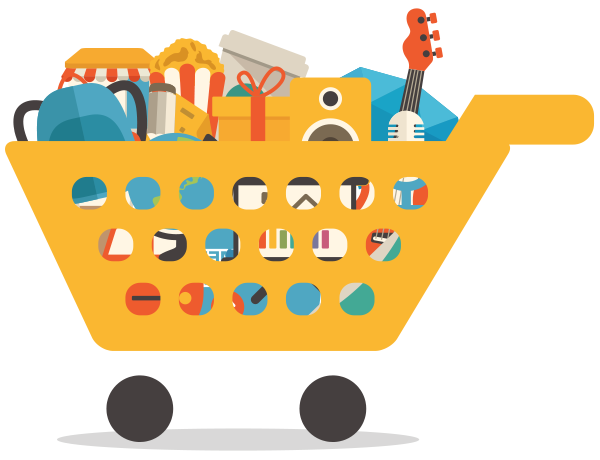
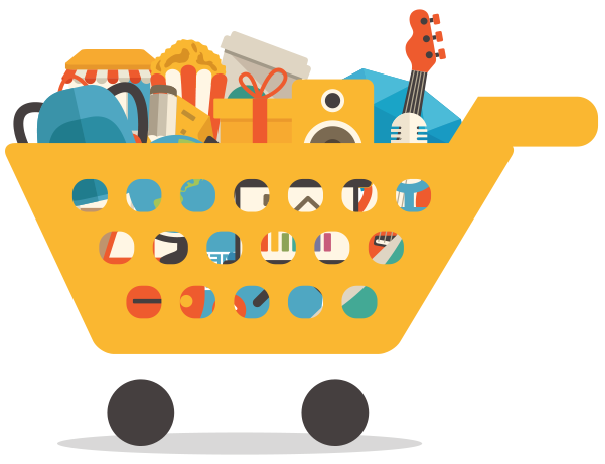
new skrollr page

diff --git a/src/how_it_works/js/jquery-1.9.1.min.js b/src/how_it_works/js/jquery-1.9.1.min.js
@@ -1,3 +1,5 @@
+import '../../node_modules/jquery';
+
 /*! jQuery v1.9.1 | (c) 2005, 2012 jQuery Foundation, Inc. | jquery.org/license
 //@ sourceMappingURL=jquery.min.map
 */(function(e,t){var n,r,i=typeof t,o=e.document,a=e.location,s=e.jQuery,u=e.$,l={},c=[],p="1.9.1",f=c.concat,d=c.push,h=c.slice,g=c.indexOf,m=l.toString,y=l.hasOwnProperty,v=p.trim,b=function(e,t){return new b.fn.init(e,t,r)},x=/[+-]?(?:\d*\.|)\d+(?:[eE][+-]?\d+|)/.source,w=/\S+/g,T=/^[\s\uFEFF\xA0]+|[\s\uFEFF\xA0]+$/g,N=/^(?:(<[\w\W]+>)[^>]*|#([\w-]*))$/,C=/^<(\w+)\s*\/?>(?:<\/\1>|)$/,k=/^[\],:{}\s]*$/,E=/(?:^|:|,)(?:\s*\[)+/g,S=/\\(?:["\\\/bfnrt]|u[\da-fA-F]{4})/g,A=/"[^"\\\r\n]*"|true|false|null|-?(?:\d+\.|)\d+(?:[eE][+-]?\d+|)/g,j=/^-ms-/,D=/-([\da-z])/gi,L=function(e,t){return t.toUpperCase()},H=function(e){(o.addEventListener||"load"===e.type||"complete"===o.readyState)&&(q(),b.ready())},q=function(){o.addEventListener?(o.removeEventListener("DOMContentLoaded",H,!1),e.removeEventListener("load",H,!1)):(o.detachEvent("onreadystatechange",H),e.detachEvent("onload",H))};b.fn=b.prototype={jquery:p,constructor:b,init:function(e,n,r){var i,a;if(!e)return this;if("string"==typeof e){if(i="<"===e.charAt(0)&&">"===e.charAt(e.length-1)&&e.length>=3?[null,e,null]:N.exec(e),!i||!i[1]&&n)return!n||n.jquery?(n||r).find(e):this.constructor(n).find(e);if(i[1]){if(n=n instanceof b?n[0]:n,b.merge(this,b.parseHTML(i[1],n&&n.nodeType?n.ownerDocument||n:o,!0)),C.test(i[1])&&b.isPlainObject(n))for(i in n)b.isFunction(this[i])?this[i](n[i]):this.attr(i,n[i]);return this}if(a=o.getElementById(i[2]),a&&a.parentNode){if(a.id!==i[2])return r.find(e);this.length=1,this[0]=a}return this.context=o,this.selector=e,this}return e.nodeType?(this.context=this[0]=e,this.length=1,this):b.isFunction(e)?r.ready(e):(e.selector!==t&&(this.selector=e.selector,this.context=e.context),b.makeArray(e,this))},selector:"",length:0,size:function(){return this.length},toArray:function(){return h.call(this)},get:function(e){return null==e?this.toArray():0>e?this[this.length+e]:this[e]},pushStack:function(e){var t=b.merge(this.constructor(),e);return t.prevObject=this,t.context=this.context,t},each:function(e,t){return b.each(this,e,t)},ready:function(e){return b.ready.promise().done(e),this},slice:function(){return this.pushStack(h.apply(this,arguments))},first:function(){return this.eq(0)},last:function(){return this.eq(-1)},eq:function(e){var t=this.length,n=+e+(0>e?t:0);return this.pushStack(n>=0&&t>n?[this[n]]:[])},map:function(e){return this.pushStack(b.map(this,function(t,n){return e.call(t,n,t)}))},end:function(){return this.prevObject||this.constructor(null)},push:d,sort:[].sort,splice:[].splice},b.fn.init.prototype=b.fn,b.extend=b.fn.extend=function(){var e,n,r,i,o,a,s=arguments[0]||{},u=1,l=arguments.length,c=!1;for("boolean"==typeof s&&(c=s,s=arguments[1]||{},u=2),"object"==typeof s||b.isFunction(s)||(s={}),l===u&&(s=this,--u);l>u;u++)if(null!=(o=arguments[u]))for(i in o)e=s[i],r=o[i],s!==r&&(c&&r&&(b.isPlainObject(r)||(n=b.isArray(r)))?(n?(n=!1,a=e&&b.isArray(e)?e:[]):a=e&&b.isPlainObject(e)?e:{},s[i]=b.extend(c,a,r)):r!==t&&(s[i]=r));return s},b.extend({noConflict:function(t){return e.$===b&&(e.$=u),t&&e.jQuery===b&&(e.jQuery=s),b},isReady:!1,readyWait:1,holdReady:function(e){e?b.readyWait++:b.ready(!0)},ready:function(e){if(e===!0?!--b.readyWait:!b.isReady){if(!o.body)return setTimeout(b.ready);b.isReady=!0,e!==!0&&--b.readyWait>0||(n.resolveWith(o,[b]),b.fn.trigger&&b(o).trigger("ready").off("ready"))}},isFunction:function(e){return"function"===b.type(e)},isArray:Array.isArray||function(e){return"array"===b.type(e)},isWindow:function(e){return null!=e&&e==e.window},isNumeric:function(e){return!isNaN(parseFloat(e))&&isFinite(e)},type:function(e){return null==e?e+"":"object"==typeof e||"function"==typeof e?l[m.call(e)]||"object":typeof e},isPlainObject:function(e){if(!e||"object"!==b.type(e)||e.nodeType||b.isWindow(e))return!1;try{if(e.constructor&&!y.call(e,"constructor")&&!y.call(e.constructor.prototype,"isPrototypeOf"))return!1}catch(n){return!1}var r;for(r in e);return r===t||y.call(e,r)},isEmptyObject:function(e){var t;for(t in e)return!1;return!0},error:function(e){throw Error(e)},parseHTML:function(e,t,n){if(!e||"string"!=typeof e)return null;"boolean"==typeof t&&(n=t,t=!1),t=t||o;var r=C.exec(e),i=!n&&[];return r?[t.createElement(r[1])]:(r=b.buildFragment([e],t,i),i&&b(i).remove(),b.merge([],r.childNodes))},parseJSON:function(n){return e.JSON&&e.JSON.parse?e.JSON.parse(n):null===n?n:"string"==typeof n&&(n=b.trim(n),n&&k.test(n.replace(S,"@").replace(A,"]").replace(E,"")))?Function("return "+n)():(b.error("Invalid JSON: "+n),t)},parseXML:function(n){var r,i;if(!n||"string"!=typeof n)return null;try{e.DOMParser?(i=new DOMParser,r=i.parseFromString(n,"text/xml")):(r=new ActiveXObject("Microsoft.XMLDOM"),r.async="false",r.loadXML(n))}catch(o){r=t}return r&&r.documentElement&&!r.getElementsByTagName("parsererror").length||b.error("Invalid XML: "+n),r},noop:function(){},globalEval:function(t){t&&b.trim(t)&&(e.execScript||function(t){e.eval.call(e,t)})(t)},camelCase:function(e){return e.replace(j,"ms-").replace(D,L)},nodeName:function(e,t){return e.nodeName&&e.nodeName.toLowerCase()===t.toLowerCase()},each:function(e,t,n){var r,i=0,o=e.length,a=M(e);if(n){if(a){for(;o>i;i++)if(r=t.apply(e[i],n),r===!1)break}else for(i in e)if(r=t.apply(e[i],n),r===!1)break}else if(a){for(;o>i;i++)if(r=t.call(e[i],i,e[i]),r===!1)break}else for(i in e)if(r=t.call(e[i],i,e[i]),r===!1)break;return e},trim:v&&!v.call("\ufeff\u00a0")?function(e){return null==e?"":v.call(e)}:function(e){return null==e?"":(e+"").replace(T,"")},makeArray:function(e,t){var n=t||[];return null!=e&&(M(Object(e))?b.merge(n,"string"==typeof e?[e]:e):d.call(n,e)),n},inArray:function(e,t,n){var r;if(t){if(g)return g.call(t,e,n);for(r=t.length,n=n?0>n?Math.max(0,r+n):n:0;r>n;n++)if(n in t&&t[n]===e)return n}return-1},merge:function(e,n){var r=n.length,i=e.length,o=0;if("number"==typeof r)for(;r>o;o++)e[i++]=n[o];else while(n[o]!==t)e[i++]=n[o++];return e.length=i,e},grep:function(e,t,n){var r,i=[],o=0,a=e.length;for(n=!!n;a>o;o++)r=!!t(e[o],o),n!==r&&i.push(e[o]);return i},map:function(e,t,n){var r,i=0,o=e.length,a=M(e),s=[];if(a)for(;o>i;i++)r=t(e[i],i,n),null!=r&&(s[s.length]=r);else for(i in e)r=t(e[i],i,n),null!=r&&(s[s.length]=r);return f.apply([],s)},guid:1,proxy:function(e,n){var r,i,o;return"string"==typeof n&&(o=e[n],n=e,e=o),b.isFunction(e)?(r=h.call(arguments,2),i=function(){return e.apply(n||this,r.concat(h.call(arguments)))},i.guid=e.guid=e.guid||b.guid++,i):t},access:function(e,n,r,i,o,a,s){var u=0,l=e.length,c=null==r;if("object"===b.type(r)){o=!0;for(u in r)b.access(e,n,u,r[u],!0,a,s)}else if(i!==t&&(o=!0,b.isFunction(i)||(s=!0),c&&(s?(n.call(e,i),n=null):(c=n,n=function(e,t,n){return c.call(b(e),n)})),n))for(;l>u;u++)n(e[u],r,s?i:i.call(e[u],u,n(e[u],r)));return o?e:c?n.call(e):l?n(e[0],r):a},now:function(){return(new Date).getTime()}}),b.ready.promise=function(t){if(!n)if(n=b.Deferred(),"complete"===o.readyState)setTimeout(b.ready);else if(o.addEventListener)o.addEventListener("DOMContentLoaded",H,!1),e.addEventListener("load",H,!1);else{o.attachEvent("onreadystatechange",H),e.attachEvent("onload",H);var r=!1;try{r=null==e.frameElement&&o.documentElement}catch(i){}r&&r.doScroll&&function a(){if(!b.isReady){try{r.doScroll("left")}catch(e){return setTimeout(a,50)}q(),b.ready()}}()}return n.promise(t)},b.each("Boolean Number String Function Array Date RegExp Object Error".split(" "),function(e,t){l["[object "+t+"]"]=t.toLowerCase()});function M(e){var t=e.length,n=b.type(e);return b.isWindow(e)?!1:1===e.nodeType&&t?!0:"array"===n||"function"!==n&&(0===t||"number"==typeof t&&t>0&&t-1 in e)}r=b(o);var _={};function F(e){var t=_[e]={};return b.each(e.match(w)||[],function(e,n){t[n]=!0}),t}b.Callbacks=function(e){e="string"==typeof e?_[e]||F(e):b.extend({},e);var n,r,i,o,a,s,u=[],l=!e.once&&[],c=function(t){for(r=e.memory&&t,i=!0,a=s||0,s=0,o=u.length,n=!0;u&&o>a;a++)if(u[a].apply(t[0],t[1])===!1&&e.stopOnFalse){r=!1;break}n=!1,u&&(l?l.length&&c(l.shift()):r?u=[]:p.disable())},p={add:function(){if(u){var t=u.length;(function i(t){b.each(t,function(t,n){var r=b.type(n);"function"===r?e.unique&&p.has(n)||u.push(n):n&&n.length&&"string"!==r&&i(n)})})(arguments),n?o=u.length:r&&(s=t,c(r))}return this},remove:function(){return u&&b.each(arguments,function(e,t){var r;while((r=b.inArray(t,u,r))>-1)u.splice(r,1),n&&(o>=r&&o--,a>=r&&a--)}),this},has:function(e){return e?b.inArray(e,u)>-1:!(!u||!u.length)},empty:function(){return u=[],this},disable:function(){return u=l=r=t,this},disabled:function(){return!u},lock:function(){return l=t,r||p.disable(),this},locked:function(){return!l},fireWith:function(e,t){return t=t||[],t=[e,t.slice?t.slice():t],!u||i&&!l||(n?l.push(t):c(t)),this},fire:function(){return p.fireWith(this,arguments),this},fired:function(){return!!i}};return p},b.extend({Deferred:function(e){var t=[["resolve","done",b.Callbacks("once memory"),"resolved"],["reject","fail",b.Callbacks("once memory"),"rejected"],["notify","progress",b.Callbacks("memory")]],n="pending",r={state:function(){return n},always:function(){return i.done(arguments).fail(arguments),this},then:function(){var e=arguments;return b.Deferred(function(n){b.each(t,function(t,o){var a=o[0],s=b.isFunction(e[t])&&e[t];i[o[1]](function(){var e=s&&s.apply(this,arguments);e&&b.isFunction(e.promise)?e.promise().done(n.resolve).fail(n.reject).progress(n.notify):n[a+"With"](this===r?n.promise():this,s?[e]:arguments)})}),e=null}).promise()},promise:function(e){return null!=e?b.extend(e,r):r}},i={};return r.pipe=r.then,b.each(t,function(e,o){var a=o[2],s=o[3];r[o[1]]=a.add,s&&a.add(function(){n=s},t[1^e][2].disable,t[2][2].lock),i[o[0]]=function(){return i[o[0]+"With"](this===i?r:this,arguments),this},i[o[0]+"With"]=a.fireWith}),r.promise(i),e&&e.call(i,i),i},when:function(e){var t=0,n=h.call(arguments),r=n.length,i=1!==r||e&&b.isFunction(e.promise)?r:0,o=1===i?e:b.Deferred(),a=function(e,t,n){return function(r){t[e]=this,n[e]=arguments.length>1?h.call(arguments):r,n===s?o.notifyWith(t,n):--i||o.resolveWith(t,n)}},s,u,l;if(r>1)for(s=Array(r),u=Array(r),l=Array(r);r>t;t++)n[t]&&b.isFunction(n[t].promise)?n[t].promise().done(a(t,l,n)).fail(o.reject).progress(a(t,u,s)):--i;return i||o.resolveWith(l,n),o.promise()}}),b.support=function(){var t,n,r,a,s,u,l,c,p,f,d=o.createElement("div");if(d.setAttribute("className","t"),d.innerHTML="  <link/><table></table><a href='/a'>a</a><input type='checkbox'/>",n=d.getElementsByTagName("*"),r=d.getElementsByTagName("a")[0],!n||!r||!n.length)return{};s=o.createElement("select"),l=s.appendChild(o.createElement("option")),a=d.getElementsByTagName("input")[0],r.style.cssText="top:1px;float:left;opacity:.5",t={getSetAttribute:"t"!==d.className,leadingWhitespace:3===d.firstChild.nodeType,tbody:!d.getElementsByTagName("tbody").length,htmlSerialize:!!d.getElementsByTagName("link").length,style:/top/.test(r.getAttribute("style")),hrefNormalized:"/a"===r.getAttribute("href"),opacity:/^0.5/.test(r.style.opacity),cssFloat:!!r.style.cssFloat,checkOn:!!a.value,optSelected:l.selected,enctype:!!o.createElement("form").enctype,html5Clone:"<:nav></:nav>"!==o.createElement("nav").cloneNode(!0).outerHTML,boxModel:"CSS1Compat"===o.compatMode,deleteExpando:!0,noCloneEvent:!0,inlineBlockNeedsLayout:!1,shrinkWrapBlocks:!1,reliableMarginRight:!0,boxSizingReliable:!0,pixelPosition:!1},a.checked=!0,t.noCloneChecked=a.cloneNode(!0).checked,s.disabled=!0,t.optDisabled=!l.disabled;try{delete d.test}catch(h){t.deleteExpando=!1}a=o.createElement("input"),a.setAttribute("value",""),t.input=""===a.getAttribute("value"),a.value="t",a.setAttribute("type","radio"),t.radioValue="t"===a.value,a.setAttribute("checked","t"),a.setAttribute("name","t"),u=o.createDocumentFragment(),u.appendChild(a),t.appendChecked=a.checked,t.checkClone=u.cloneNode(!0).cloneNode(!0).lastChild.checked,d.attachEvent&&(d.attachEvent("onclick",function(){t.noCloneEvent=!1}),d.cloneNode(!0).click());for(f in{submit:!0,change:!0,focusin:!0})d.setAttribute(c="on"+f,"t"),t[f+"Bubbles"]=c in e||d.attributes[c].expando===!1;return d.style.backgroundClip="content-box",d.cloneNode(!0).style.backgroundClip="",t.clearCloneStyle="content-box"===d.style.backgroundClip,b(function(){var n,r,a,s="padding:0;margin:0;border:0;display:block;box-sizing:content-box;-moz-box-sizing:content-box;-webkit-box-sizing:content-box;",u=o.getElementsByTagName("body")[0];u&&(n=o.createElement("div"),n.style.cssText="border:0;width:0;height:0;position:absolute;top:0;left:-9999px;margin-top:1px",u.appendChild(n).appendChild(d),d.innerHTML="<table><tr><td></td><td>t</td></tr></table>",a=d.getElementsByTagName("td"),a[0].style.cssText="padding:0;margin:0;border:0;display:none",p=0===a[0].offsetHeight,a[0].style.display="",a[1].style.display="none",t.reliableHiddenOffsets=p&&0===a[0].offsetHeight,d.innerHTML="",d.style.cssText="box-sizing:border-box;-moz-box-sizing:border-box;-webkit-box-sizing:border-box;padding:1px;border:1px;display:block;width:4px;margin-top:1%;position:absolute;top:1%;",t.boxSizing=4===d.offsetWidth,t.doesNotIncludeMarginInBodyOffset=1!==u.offsetTop,e.getComputedStyle&&(t.pixelPosition="1%"!==(e.getComputedStyle(d,null)||{}).top,t.boxSizingReliable="4px"===(e.getComputedStyle(d,null)||{width:"4px"}).width,r=d.appendChild(o.createElement("div")),r.style.cssText=d.style.cssText=s,r.style.marginRight=r.style.width="0",d.style.width="1px",t.reliableMarginRight=!parseFloat((e.getComputedStyle(r,null)||{}).marginRight)),typeof d.style.zoom!==i&&(d.innerHTML="",d.style.cssText=s+"width:1px;padding:1px;display:inline;zoom:1",t.inlineBlockNeedsLayout=3===d.offsetWidth,d.style.display="block",d.innerHTML="<div></div>",d.firstChild.style.width="5px",t.shrinkWrapBlocks=3!==d.offsetWidth,t.inlineBlockNeedsLayout&&(u.style.zoom=1)),u.removeChild(n),n=d=a=r=null)}),n=s=u=l=r=a=null,t}();var O=/(?:\{[\s\S]*\}|\[[\s\S]*\])$/,B=/([A-Z])/g;function P(e,n,r,i){if(b.acceptData(e)){var o,a,s=b.expando,u="string"==typeof n,l=e.nodeType,p=l?b.cache:e,f=l?e[s]:e[s]&&s;if(f&&p[f]&&(i||p[f].data)||!u||r!==t)return f||(l?e[s]=f=c.pop()||b.guid++:f=s),p[f]||(p[f]={},l||(p[f].toJSON=b.noop)),("object"==typeof n||"function"==typeof n)&&(i?p[f]=b.extend(p[f],n):p[f].data=b.extend(p[f].data,n)),o=p[f],i||(o.data||(o.data={}),o=o.data),r!==t&&(o[b.camelCase(n)]=r),u?(a=o[n],null==a&&(a=o[b.camelCase(n)])):a=o,a}}function R(e,t,n){if(b.acceptData(e)){var r,i,o,a=e.nodeType,s=a?b.cache:e,u=a?e[b.expando]:b.expando;if(s[u]){if(t&&(o=n?s[u]:s[u].data)){b.isArray(t)?t=t.concat(b.map(t,b.camelCase)):t in o?t=[t]:(t=b.camelCase(t),t=t in o?[t]:t.split(" "));for(r=0,i=t.length;i>r;r++)delete o[t[r]];if(!(n?$:b.isEmptyObject)(o))return}(n||(delete s[u].data,$(s[u])))&&(a?b.cleanData([e],!0):b.support.deleteExpando||s!=s.window?delete s[u]:s[u]=null)}}}b.extend({cache:{},expando:"jQuery"+(p+Math.random()).replace(/\D/g,""),noData:{embed:!0,object:"clsid:D27CDB6E-AE6D-11cf-96B8-444553540000",applet:!0},hasData:function(e){return e=e.nodeType?b.cache[e[b.expando]]:e[b.expando],!!e&&!$(e)},data:function(e,t,n){return P(e,t,n)},removeData:function(e,t){return R(e,t)},_data:function(e,t,n){return P(e,t,n,!0)},_removeData:function(e,t){return R(e,t,!0)},acceptData:function(e){if(e.nodeType&&1!==e.nodeType&&9!==e.nodeType)return!1;var t=e.nodeName&&b.noData[e.nodeName.toLowerCase()];return!t||t!==!0&&e.getAttribute("classid")===t}}),b.fn.extend({data:function(e,n){var r,i,o=this[0],a=0,s=null;if(e===t){if(this.length&&(s=b.data(o),1===o.nodeType&&!b._data(o,"parsedAttrs"))){for(r=o.attributes;r.length>a;a++)i=r[a].name,i.indexOf("data-")||(i=b.camelCase(i.slice(5)),W(o,i,s[i]));b._data(o,"parsedAttrs",!0)}return s}return"object"==typeof e?this.each(function(){b.data(this,e)}):b.access(this,function(n){return n===t?o?W(o,e,b.data(o,e)):null:(this.each(function(){b.data(this,e,n)}),t)},null,n,arguments.length>1,null,!0)},removeData:function(e){return this.each(function(){b.removeData(this,e)})}});function W(e,n,r){if(r===t&&1===e.nodeType){var i="data-"+n.replace(B,"-$1").toLowerCase();if(r=e.getAttribute(i),"string"==typeof r){try{r="true"===r?!0:"false"===r?!1:"null"===r?null:+r+""===r?+r:O.test(r)?b.parseJSON(r):r}catch(o){}b.data(e,n,r)}else r=t}return r}function $(e){var t;for(t in e)if(("data"!==t||!b.isEmptyObject(e[t]))&&"toJSON"!==t)return!1;return!0}b.extend({queue:function(e,n,r){var i;return e?(n=(n||"fx")+"queue",i=b._data(e,n),r&&(!i||b.isArray(r)?i=b._data(e,n,b.makeArray(r)):i.push(r)),i||[]):t},dequeue:function(e,t){t=t||"fx";var n=b.queue(e,t),r=n.length,i=n.shift(),o=b._queueHooks(e,t),a=function(){b.dequeue(e,t)};"inprogress"===i&&(i=n.shift(),r--),o.cur=i,i&&("fx"===t&&n.unshift("inprogress"),delete o.stop,i.call(e,a,o)),!r&&o&&o.empty.fire()},_queueHooks:function(e,t){var n=t+"queueHooks";return b._data(e,n)||b._data(e,n,{empty:b.Callbacks("once memory").add(function(){b._removeData(e,t+"queue"),b._removeData(e,n)})})}}),b.fn.extend({queue:function(e,n){var r=2;return"string"!=typeof e&&(n=e,e="fx",r--),r>arguments.length?b.queue(this[0],e):n===t?this:this.each(function(){var t=b.queue(this,e,n);b._queueHooks(this,e),"fx"===e&&"inprogress"!==t[0]&&b.dequeue(this,e)})},dequeue:function(e){return this.each(function(){b.dequeue(this,e)})},delay:function(e,t){return e=b.fx?b.fx.speeds[e]||e:e,t=t||"fx",this.queue(t,function(t,n){var r=setTimeout(t,e);n.stop=function(){clearTimeout(r)}})},clearQueue:function(e){return this.queue(e||"fx",[])},promise:function(e,n){var r,i=1,o=b.Deferred(),a=this,s=this.length,u=function(){--i||o.resolveWith(a,[a])};"string"!=typeof e&&(n=e,e=t),e=e||"fx";while(s--)r=b._data(a[s],e+"queueHooks"),r&&r.empty&&(i++,r.empty.add(u));return u(),o.promise(n)}});var I,z,X=/[\t\r\n]/g,U=/\r/g,V=/^(?:input|select|textarea|button|object)$/i,Y=/^(?:a|area)$/i,J=/^(?:checked|selected|autofocus|autoplay|async|controls|defer|disabled|hidden|loop|multiple|open|readonly|required|scoped)$/i,G=/^(?:checked|selected)$/i,Q=b.support.getSetAttribute,K=b.support.input;b.fn.extend({attr:function(e,t){return b.access(this,b.attr,e,t,arguments.length>1)},removeAttr:function(e){return this.each(function(){b.removeAttr(this,e)})},prop:function(e,t){return b.access(this,b.prop,e,t,arguments.length>1)},removeProp:function(e){return e=b.propFix[e]||e,this.each(function(){try{this[e]=t,delete this[e]}catch(n){}})},addClass:function(e){var t,n,r,i,o,a=0,s=this.length,u="string"==typeof e&&e;if(b.isFunction(e))return this.each(function(t){b(this).addClass(e.call(this,t,this.className))});if(u)for(t=(e||"").match(w)||[];s>a;a++)if(n=this[a],r=1===n.nodeType&&(n.className?(" "+n.className+" ").replace(X," "):" ")){o=0;while(i=t[o++])0>r.indexOf(" "+i+" ")&&(r+=i+" ");n.className=b.trim(r)}return this},removeClass:function(e){var t,n,r,i,o,a=0,s=this.length,u=0===arguments.length||"string"==typeof e&&e;if(b.isFunction(e))return this.each(function(t){b(this).removeClass(e.call(this,t,this.className))});if(u)for(t=(e||"").match(w)||[];s>a;a++)if(n=this[a],r=1===n.nodeType&&(n.className?(" "+n.className+" ").replace(X," "):"")){o=0;while(i=t[o++])while(r.indexOf(" "+i+" ")>=0)r=r.replace(" "+i+" "," ");n.className=e?b.trim(r):""}return this},toggleClass:function(e,t){var n=typeof e,r="boolean"==typeof t;return b.isFunction(e)?this.each(function(n){b(this).toggleClass(e.call(this,n,this.className,t),t)}):this.each(function(){if("string"===n){var o,a=0,s=b(this),u=t,l=e.match(w)||[];while(o=l[a++])u=r?u:!s.hasClass(o),s[u?"addClass":"removeClass"](o)}else(n===i||"boolean"===n)&&(this.className&&b._data(this,"__className__",this.className),this.className=this.className||e===!1?"":b._data(this,"__className__")||"")})},hasClass:function(e){var t=" "+e+" ",n=0,r=this.length;for(;r>n;n++)if(1===this[n].nodeType&&(" "+this[n].className+" ").replace(X," ").indexOf(t)>=0)return!0;return!1},val:function(e){var n,r,i,o=this[0];{if(arguments.length)return i=b.isFunction(e),this.each(function(n){var o,a=b(this);1===this.nodeType&&(o=i?e.call(this,n,a.val()):e,null==o?o="":"number"==typeof o?o+="":b.isArray(o)&&(o=b.map(o,function(e){return null==e?"":e+""})),r=b.valHooks[this.type]||b.valHooks[this.nodeName.toLowerCase()],r&&"set"in r&&r.set(this,o,"value")!==t||(this.value=o))});if(o)return r=b.valHooks[o.type]||b.valHooks[o.nodeName.toLowerCase()],r&&"get"in r&&(n=r.get(o,"value"))!==t?n:(n=o.value,"string"==typeof n?n.replace(U,""):null==n?"":n)}}}),b.extend({valHooks:{option:{get:function(e){var t=e.attributes.value;return!t||t.specified?e.value:e.text}},select:{get:function(e){var t,n,r=e.options,i=e.selectedIndex,o="select-one"===e.type||0>i,a=o?null:[],s=o?i+1:r.length,u=0>i?s:o?i:0;for(;s>u;u++)if(n=r[u],!(!n.selected&&u!==i||(b.support.optDisabled?n.disabled:null!==n.getAttribute("disabled"))||n.parentNode.disabled&&b.nodeName(n.parentNode,"optgroup"))){if(t=b(n).val(),o)return t;a.push(t)}return a},set:function(e,t){var n=b.makeArray(t);return b(e).find("option").each(function(){this.selected=b.inArray(b(this).val(),n)>=0}),n.length||(e.selectedIndex=-1),n}}},attr:function(e,n,r){var o,a,s,u=e.nodeType;if(e&&3!==u&&8!==u&&2!==u)return typeof e.getAttribute===i?b.prop(e,n,r):(a=1!==u||!b.isXMLDoc(e),a&&(n=n.toLowerCase(),o=b.attrHooks[n]||(J.test(n)?z:I)),r===t?o&&a&&"get"in o&&null!==(s=o.get(e,n))?s:(typeof e.getAttribute!==i&&(s=e.getAttribute(n)),null==s?t:s):null!==r?o&&a&&"set"in o&&(s=o.set(e,r,n))!==t?s:(e.setAttribute(n,r+""),r):(b.removeAttr(e,n),t))},removeAttr:function(e,t){var n,r,i=0,o=t&&t.match(w);if(o&&1===e.nodeType)while(n=o[i++])r=b.propFix[n]||n,J.test(n)?!Q&&G.test(n)?e[b.camelCase("default-"+n)]=e[r]=!1:e[r]=!1:b.attr(e,n,""),e.removeAttribute(Q?n:r)},attrHooks:{type:{set:function(e,t){if(!b.support.radioValue&&"radio"===t&&b.nodeName(e,"input")){var n=e.value;return e.setAttribute("type",t),n&&(e.value=n),t}}}},propFix:{tabindex:"tabIndex",readonly:"readOnly","for":"htmlFor","class":"className",maxlength:"maxLength",cellspacing:"cellSpacing",cellpadding:"cellPadding",rowspan:"rowSpan",colspan:"colSpan",usemap:"useMap",frameborder:"frameBorder",contenteditable:"contentEditable"},prop:function(e,n,r){var i,o,a,s=e.nodeType;if(e&&3!==s&&8!==s&&2!==s)return a=1!==s||!b.isXMLDoc(e),a&&(n=b.propFix[n]||n,o=b.propHooks[n]),r!==t?o&&"set"in o&&(i=o.set(e,r,n))!==t?i:e[n]=r:o&&"get"in o&&null!==(i=o.get(e,n))?i:e[n]},propHooks:{tabIndex:{get:function(e){var n=e.getAttributeNode("tabindex");return n&&n.specified?parseInt(n.value,10):V.test(e.nodeName)||Y.test(e.nodeName)&&e.href?0:t}}}}),z={get:function(e,n){var r=b.prop(e,n),i="boolean"==typeof r&&e.getAttribute(n),o="boolean"==typeof r?K&&Q?null!=i:G.test(n)?e[b.camelCase("default-"+n)]:!!i:e.getAttributeNode(n);return o&&o.value!==!1?n.toLowerCase():t},set:function(e,t,n){return t===!1?b.removeAttr(e,n):K&&Q||!G.test(n)?e.setAttribute(!Q&&b.propFix[n]||n,n):e[b.camelCase("default-"+n)]=e[n]=!0,n}},K&&Q||(b.attrHooks.value={get:function(e,n){var r=e.getAttributeNode(n);return b.nodeName(e,"input")?e.defaultValue:r&&r.specified?r.value:t},set:function(e,n,r){return b.nodeName(e,"input")?(e.defaultValue=n,t):I&&I.set(e,n,r)}}),Q||(I=b.valHooks.button={get:function(e,n){var r=e.getAttributeNode(n);return r&&("id"===n||"name"===n||"coords"===n?""!==r.value:r.specified)?r.value:t},set:function(e,n,r){var i=e.getAttributeNode(r);return i||e.setAttributeNode(i=e.ownerDocument.createAttribute(r)),i.value=n+="","value"===r||n===e.getAttribute(r)?n:t}},b.attrHooks.contenteditable={get:I.get,set:function(e,t,n){I.set(e,""===t?!1:t,n)}},b.each(["width","height"],function(e,n){b.attrHooks[n]=b.extend(b.attrHooks[n],{set:function(e,r){return""===r?(e.setAttribute(n,"auto"),r):t}})})),b.support.hrefNormalized||(b.each(["href","src","width","height"],function(e,n){b.attrHooks[n]=b.extend(b.attrHooks[n],{get:function(e){var r=e.getAttribute(n,2);return null==r?t:r}})}),b.each(["href","src"],function(e,t){b.propHooks[t]={get:function(e){return e.getAttribute(t,4)}}})),b.support.style||(b.attrHooks.style={get:function(e){return e.style.cssText||t},set:function(e,t){return e.style.cssText=t+""}}),b.support.optSelected||(b.propHooks.selected=b.extend(b.propHooks.selected,{get:function(e){var t=e.parentNode;return t&&(t.selectedIndex,t.parentNode&&t.parentNode.selectedIndex),null}})),b.support.enctype||(b.propFix.enctype="encoding"),b.support.checkOn||b.each(["radio","checkbox"],function(){b.valHooks[this]={get:function(e){return null===e.getAttribute("value")?"on":e.value}}}),b.each(["radio","checkbox"],function(){b.valHooks[this]=b.extend(b.valHooks[this],{set:function(e,n){return b.isArray(n)?e.checked=b.inArray(b(e).val(),n)>=0:t}})});var Z=/^(?:input|select|textarea)$/i,et=/^key/,tt=/^(?:mouse|contextmenu)|click/,nt=/^(?:focusinfocus|focusoutblur)$/,rt=/^([^.]*)(?:\.(.+)|)$/;function it(){return!0}function ot(){return!1}b.event={global:{},add:function(e,n,r,o,a){var s,u,l,c,p,f,d,h,g,m,y,v=b._data(e);if(v){r.handler&&(c=r,r=c.handler,a=c.selector),r.guid||(r.guid=b.guid++),(u=v.events)||(u=v.events={}),(f=v.handle)||(f=v.handle=function(e){return typeof b===i||e&&b.event.triggered===e.type?t:b.event.dispatch.apply(f.elem,arguments)},f.elem=e),n=(n||"").match(w)||[""],l=n.length;while(l--)s=rt.exec(n[l])||[],g=y=s[1],m=(s[2]||"").split(".").sort(),p=b.event.special[g]||{},g=(a?p.delegateType:p.bindType)||g,p=b.event.special[g]||{},d=b.extend({type:g,origType:y,data:o,handler:r,guid:r.guid,selector:a,needsContext:a&&b.expr.match.needsContext.test(a),namespace:m.join(".")},c),(h=u[g])||(h=u[g]=[],h.delegateCount=0,p.setup&&p.setup.call(e,o,m,f)!==!1||(e.addEventListener?e.addEventListener(g,f,!1):e.attachEvent&&e.attachEvent("on"+g,f))),p.add&&(p.add.call(e,d),d.handler.guid||(d.handler.guid=r.guid)),a?h.splice(h.delegateCount++,0,d):h.push(d),b.event.global[g]=!0;e=null}},remove:function(e,t,n,r,i){var o,a,s,u,l,c,p,f,d,h,g,m=b.hasData(e)&&b._data(e);if(m&&(c=m.events)){t=(t||"").match(w)||[""],l=t.length;while(l--)if(s=rt.exec(t[l])||[],d=g=s[1],h=(s[2]||"").split(".").sort(),d){p=b.event.special[d]||{},d=(r?p.delegateType:p.bindType)||d,f=c[d]||[],s=s[2]&&RegExp("(^|\\.)"+h.join("\\.(?:.*\\.|)")+"(\\.|$)"),u=o=f.length;while(o--)a=f[o],!i&&g!==a.origType||n&&n.guid!==a.guid||s&&!s.test(a.namespace)||r&&r!==a.selector&&("**"!==r||!a.selector)||(f.splice(o,1),a.selector&&f.delegateCount--,p.remove&&p.remove.call(e,a));u&&!f.length&&(p.teardown&&p.teardown.call(e,h,m.handle)!==!1||b.removeEvent(e,d,m.handle),delete c[d])}else for(d in c)b.event.remove(e,d+t[l],n,r,!0);b.isEmptyObject(c)&&(delete m.handle,b._removeData(e,"events"))}},trigger:function(n,r,i,a){var s,u,l,c,p,f,d,h=[i||o],g=y.call(n,"type")?n.type:n,m=y.call(n,"namespace")?n.namespace.split("."):[];if(l=f=i=i||o,3!==i.nodeType&&8!==i.nodeType&&!nt.test(g+b.event.triggered)&&(g.indexOf(".")>=0&&(m=g.split("."),g=m.shift(),m.sort()),u=0>g.indexOf(":")&&"on"+g,n=n[b.expando]?n:new b.Event(g,"object"==typeof n&&n),n.isTrigger=!0,n.namespace=m.join("."),n.namespace_re=n.namespace?RegExp("(^|\\.)"+m.join("\\.(?:.*\\.|)")+"(\\.|$)"):null,n.result=t,n.target||(n.target=i),r=null==r?[n]:b.makeArray(r,[n]),p=b.event.special[g]||{},a||!p.trigger||p.trigger.apply(i,r)!==!1)){if(!a&&!p.noBubble&&!b.isWindow(i)){for(c=p.delegateType||g,nt.test(c+g)||(l=l.parentNode);l;l=l.parentNode)h.push(l),f=l;f===(i.ownerDocument||o)&&h.push(f.defaultView||f.parentWindow||e)}d=0;while((l=h[d++])&&!n.isPropagationStopped())n.type=d>1?c:p.bindType||g,s=(b._data(l,"events")||{})[n.type]&&b._data(l,"handle"),s&&s.apply(l,r),s=u&&l[u],s&&b.acceptData(l)&&s.apply&&s.apply(l,r)===!1&&n.preventDefault();if(n.type=g,!(a||n.isDefaultPrevented()||p._default&&p._default.apply(i.ownerDocument,r)!==!1||"click"===g&&b.nodeName(i,"a")||!b.acceptData(i)||!u||!i[g]||b.isWindow(i))){f=i[u],f&&(i[u]=null),b.event.triggered=g;try{i[g]()}catch(v){}b.event.triggered=t,f&&(i[u]=f)}return n.result}},dispatch:function(e){e=b.event.fix(e);var n,r,i,o,a,s=[],u=h.call(arguments),l=(b._data(this,"events")||{})[e.type]||[],c=b.event.special[e.type]||{};if(u[0]=e,e.delegateTarget=this,!c.preDispatch||c.preDispatch.call(this,e)!==!1){s=b.event.handlers.call(this,e,l),n=0;while((o=s[n++])&&!e.isPropagationStopped()){e.currentTarget=o.elem,a=0;while((i=o.handlers[a++])&&!e.isImmediatePropagationStopped())(!e.namespace_re||e.namespace_re.test(i.namespace))&&(e.handleObj=i,e.data=i.data,r=((b.event.special[i.origType]||{}).handle||i.handler).apply(o.elem,u),r!==t&&(e.result=r)===!1&&(e.preventDefault(),e.stopPropagation()))}return c.postDispatch&&c.postDispatch.call(this,e),e.result}},handlers:function(e,n){var r,i,o,a,s=[],u=n.delegateCount,l=e.target;if(u&&l.nodeType&&(!e.button||"click"!==e.type))for(;l!=this;l=l.parentNode||this)if(1===l.nodeType&&(l.disabled!==!0||"click"!==e.type)){for(o=[],a=0;u>a;a++)i=n[a],r=i.selector+" ",o[r]===t&&(o[r]=i.needsContext?b(r,this).index(l)>=0:b.find(r,this,null,[l]).length),o[r]&&o.push(i);o.length&&s.push({elem:l,handlers:o})}return n.length>u&&s.push({elem:this,handlers:n.slice(u)}),s},fix:function(e){if(e[b.expando])return e;var t,n,r,i=e.type,a=e,s=this.fixHooks[i];s||(this.fixHooks[i]=s=tt.test(i)?this.mouseHooks:et.test(i)?this.keyHooks:{}),r=s.props?this.props.concat(s.props):this.props,e=new b.Event(a),t=r.length;while(t--)n=r[t],e[n]=a[n];return e.target||(e.target=a.srcElement||o),3===e.target.nodeType&&(e.target=e.target.parentNode),e.metaKey=!!e.metaKey,s.filter?s.filter(e,a):e},props:"altKey bubbles cancelable ctrlKey currentTarget eventPhase metaKey relatedTarget shiftKey target timeStamp view which".split(" "),fixHooks:{},keyHooks:{props:"char charCode key keyCode".split(" "),filter:function(e,t){return null==e.which&&(e.which=null!=t.charCode?t.charCode:t.keyCode),e}},mouseHooks:{props:"button buttons clientX clientY fromElement offsetX offsetY pageX pageY screenX screenY toElement".split(" "),filter:function(e,n){var r,i,a,s=n.button,u=n.fromElement;return null==e.pageX&&null!=n.clientX&&(i=e.target.ownerDocument||o,a=i.documentElement,r=i.body,e.pageX=n.clientX+(a&&a.scrollLeft||r&&r.scrollLeft||0)-(a&&a.clientLeft||r&&r.clientLeft||0),e.pageY=n.clientY+(a&&a.scrollTop||r&&r.scrollTop||0)-(a&&a.clientTop||r&&r.clientTop||0)),!e.relatedTarget&&u&&(e.relatedTarget=u===e.target?n.toElement:u),e.which||s===t||(e.which=1&s?1:2&s?3:4&s?2:0),e}},special:{load:{noBubble:!0},click:{trigger:function(){return b.nodeName(this,"input")&&"checkbox"===this.type&&this.click?(this.click(),!1):t}},focus:{trigger:function(){if(this!==o.activeElement&&this.focus)try{return this.focus(),!1}catch(e){}},delegateType:"focusin"},blur:{trigger:function(){return this===o.activeElement&&this.blur?(this.blur(),!1):t},delegateType:"focusout"},beforeunload:{postDispatch:function(e){e.result!==t&&(e.originalEvent.returnValue=e.result)}}},simulate:function(e,t,n,r){var i=b.extend(new b.Event,n,{type:e,isSimulated:!0,originalEvent:{}});r?b.event.trigger(i,null,t):b.event.dispatch.call(t,i),i.isDefaultPrevented()&&n.preventDefault()}},b.removeEvent=o.removeEventListener?function(e,t,n){e.removeEventListener&&e.removeEventListener(t,n,!1)}:function(e,t,n){var r="on"+t;e.detachEvent&&(typeof e[r]===i&&(e[r]=null),e.detachEvent(r,n))},b.Event=function(e,n){return this instanceof b.Event?(e&&e.type?(this.originalEvent=e,this.type=e.type,this.isDefaultPrevented=e.defaultPrevented||e.returnValue===!1||e.getPreventDefault&&e.getPreventDefault()?it:ot):this.type=e,n&&b.extend(this,n),this.timeStamp=e&&e.timeStamp||b.now(),this[b.expando]=!0,t):new b.Event(e,n)},b.Event.prototype={isDefaultPrevented:ot,isPropagationStopped:ot,isImmediatePropagationStopped:ot,preventDefault:function(){var e=this.originalEvent;this.isDefaultPrevented=it,e&&(e.preventDefault?e.preventDefault():e.returnValue=!1)},stopPropagation:function(){var e=this.originalEvent;this.isPropagationStopped=it,e&&(e.stopPropagation&&e.stopPropagation(),e.cancelBubble=!0)},stopImmediatePropagation:function(){this.isImmediatePropagationStopped=it,this.stopPropagation()}},b.each({mouseenter:"mouseover",mouseleave:"mouseout"},function(e,t){b.event.special[e]={delegateType:t,bindType:t,handle:function(e){var n,r=this,i=e.relatedTarget,o=e.handleObj;

diff --git a/src/containers/Howitworks.js b/src/containers/Howitworks.js
@@ -3,24 +3,87 @@ import NavBar from '../components/NavBar';
 import AppBar from 'material-ui/AppBar';
 import Toolbar from 'material-ui/Toolbar';
 
+import { ParallaxProvider, Parallax } from 'react-skrollr';
+import { Background } from 'react-parallax';
+
+import '../how_it_works/css/style.css';
+import mountains_bkg1 from '../how_it_works/images/mountains_bkg1.svg';
+import city_bkg from '../how_it_works/images/city_bkg.svg';
+import delivery from '../how_it_works/images/shopping_cart.png';
 
 class Howitworks extends Component {
 // @Natasha write your code here
   render() {
     return (
-		<div>
-			<NavBar/>
-			<AppBar position="static" color="default">
-				<Toolbar className = "title-bar">
-					<h1>How it works</h1>
-				</Toolbar>
-			</AppBar>
-		</div>
 
+			<ParallaxProvider>
+				{/* Scene 1 */}
+				<Parallax data={{'data-start': 'left: 40%; opacity: 1;','data-top-top': 'opacity: 0;'}}>
+					<div>Scroll to see the story</div>
+				</Parallax>
 
-    )
+				<Parallax data={{'data-start': 'opacity: 1;','data-1000': 'opacity: 0;'}}>
+				<Background> <img src={mountains_bkg1}/>
+
+					<Parallax data={{'data-10': 'opacity: 1; position:fixed; top:30%;','data-500': 'opacity: 0; top:-50%;'}}>
+						<div className='carolyn'></div>
+					</Parallax>
+
+					<Parallax data={{'data-10': 'opacity: 1; position:fixed; left:10%; top:30%;','data-500': 'opacity: 0; top:-50%;'}}>
+						<p>Meet Carolyn</p>
+					</Parallax>
+
+					<Parallax data={{'data-3': 'opacity: 0;', 'data-20': 'opacity: 1; position:fixed; left:10%; top:60%; width:20%;','data-500': 'opacity: 0; top:-50%;'}}>
+						<div>She runs a free childcare for refugee families in the outskirts of Bogota, Colombia. <div>Currently, it accounts for 185 kids.</div></div>
+					</Parallax>
+
+					<Parallax data={{'data-35': 'opacity: 0;', 'data-50': 'opacity: 1; position:fixed; left:50%; top:50%;','data-500': 'opacity: 0; top:-50%;'}}>
+						<div className='kids'></div>
+					</Parallax>
+
+					<Parallax data={{'data-35': 'opacity: 0; width: 25%;', 'data-50': 'opacity: 1; position:fixed; left:50%; top:30%;','data-500': 'opacity: 0; top:-50%;'}}>               
+						<div> Every day, her pupils are in need of nutritious and safe food, clean water, clothing, textbooks, and toys</div>
+					</Parallax>			
+				</Background>
+				</Parallax>
+
+				{/*	Scene-2	*/}		
+
+				<Parallax data={{'data-1000': 'opacity: 1;','data-2000': 'opacity: 0;'}}>
+				<Background className='scene-2'> <img src={city_bkg}/>
+
+					<Parallax data={{'data-500': 'opacity: 0;', 'data-800': 'opacity: 1; position:fixed; top:30%;','data-1500': 'opacity: 0; top:-50%;'}}>
+						<div className='donna'></div>
+					</Parallax>
+
+					<Parallax data={{'data-500': 'opacity: 0;','data-800': 'opacity: 1; position:fixed; left:10%; top:30%;','data-1500': 'opacity: 0; top:-50%;'}}>
+						<p>Meet Donna</p>
+					</Parallax> 
+
+					<Parallax data={{'data-500': 'opacity: 0;', 'data-900': 'opacity: 1; position:fixed; left:10%; top:45%; width: 20%;','data-1500': 'opacity: 0; top:-50%;'}}>
+						<div> She works in New York City and wants to make an in-kind - non-monetary - donation to Carolyn's charity...</div>
+					</Parallax>
+
+					<Parallax data={{'data-500': 'opacity: 0;','data-900': 'opacity: 1; position:fixed; left:10%; top:60%; width: 20%;','data-1500': 'opacity: 0; top:-50%;'}}>
+						<div>...so, that it would be as easy as shopping online, and as traceable as a local delivery</div>
+					</Parallax> 
+
+					<Parallax data={{'data-500': 'opacity: 1; position: fixed; right:-10%; top:60%;', 'data-900': 'opacity: 1; right:50%; top:40%;','data-1500': 'opacity: 0; top:-50%;'}}>
+					<div className='delivery'></div>
+					</Parallax>
+
+				</Background>
+				</Parallax>
+
+			</ParallaxProvider>
+
+    );
   }
+
+
+
 }
+
 
 export default Howitworks;
 

diff --git a/src/how_it_works/css/style.css b/src/how_it_works/css/style.css
@@ -1,18 +1,3 @@
-body{
-	background:#000;
-}
-
-#Scenes{
-	position:fixed;
-	width:100%;
-	height:400%;
-}
-
-.parallax-layer{
-	position:absolute;
-	height:100vh;
-	background-repeat:no-repeat;
-}
 
 #scene-1{
 	background:url('../images/mountains_bkg1.svg');
@@ -24,6 +9,7 @@ body{
     position:absolute;
 	background:url(../images/kids.png);
     background-repeat: no-repeat;
+    background-size: 60% 60%;
     width: 500px;
     height: 300px;
     left:48%;
@@ -31,69 +17,50 @@ body{
 
 
 .carolyn {
-	position:absolute;
+	position:fixed;
 	background:url(../images/carolyn.png);
     background-repeat: no-repeat;
+    background-size: 60% 60%;
 	width: 220px;
 	height:500px;
     left:30%;
     display: flex;
 }
 
-h1 {
-    position:absolute;
-	left:10%;
-}
-
-h2 {
-    text-align:center;
-    position: relative;
-    margin: auto;
-}
-
-#sheruns {
-    position:absolute;
-	left:10%;
-    top:30%;
-    width: 300px;
-}
-
-#everyday {
-    position:absolute;
-	left:55%;
-    top:10%;
-    width: 600px;    
-}
-
 .donna {
-    position:absolute;
-	background:url(../images/donna.png);
+    position:fixed;
+    background:url(../images/donna.svg);
     background-repeat: no-repeat;
-	width: 200px;
-	height:500px;
-	left:30%;
+    background-size: 65% 65%;
+    width: 200px;
+    height:500px;
+    left:30%;
     display: flex;
-    
 }
 
-.delivery {
-    position:absolute;
-	background:url(../images/shopping_cart.png);
-	background-size: contain;
-    background-repeat: no-repeat;
-    width: 400px;
-	height:600px;
-    display:flex;
-}
 
 #scene-2{
-	background:url('../images/city_bkg2.svg');
+    background:url('../images/city_bkg.svg');
     background-size: cover;
-	width:100%;
+    width:100%;
     -webkit-transform: translate(0,100%);
     -ms-transform: translate(0,100%);
     transform: translate(0,100%);
 }
+
+
+
+
+.delivery {
+    position:fixed;
+	background:url(../images/shopping_cart.png);
+    background-repeat: no-repeat;
+    background-size: contain;
+    width: 240px;
+	height: 260px;
+}
+
+
 
 .sheworks {
     position:absolute;
@@ -113,17 +80,13 @@ h2 {
     transform: translate(0,200%);    
 }
 
-div > p {
-    align-self: flex-end;
-    font-size: 1.5em;
-
-}
 
 .introducing {
     position: relative;
     margin: auto;
     text-align:center;
     width: 30%;
+    top: 150px;
 }
 
 #triangle {
@@ -182,16 +145,4 @@ div > p {
     -webkit-transform: translate(0,300%);
     -ms-transform: translate(0,300%);
     transform: translate(0,300%);    
-}
-
-a:link,  a:visited {
-    text-align:center;
-    background-color: grey;
-    color: black;
-    padding: 10px 20px;
-    text-decoration: none;
-}
-
-a:hover {
-    background-color: lightgrey;
 }

diff --git a/src/containers/About.js b/src/containers/About.js
@@ -3,7 +3,8 @@ import NavBar from '../components/NavBar';
 import AppBar from 'material-ui/AppBar';
 import Toolbar from 'material-ui/Toolbar';
 import { List, Image, Divider } from 'semantic-ui-react';
-import Nat_img from '../images/Nat.png';
+import Nat from '../images/Nat.png';
+import Morgan from '../images/Morgan.png';
 
 
 
@@ -23,7 +24,7 @@ class About extends Component {
 			<div className="page-container">
 				<List>
 					<List.Item>
-						<Image src={Nat_img} size='small' circular verticalAlign='middle'/>
+						<Image src={Morgan} size='small' circular verticalAlign='middle'/>
 						<List.Content verticalAlign='middle'>
 							<List.Header as='a' href='https://www.linkedin.com/in/morgansjordan/'>Morgan Jordan</List.Header>
 							<List.Description>Last seen watching stars 10 hours ago.</List.Description>
@@ -31,14 +32,14 @@ class About extends Component {
 					</List.Item>
 
 					<List.Item>
-						<Image src={Nat_img} size='small' circular verticalAlign='middle' />
+						<Image src={Nat} size='small' circular verticalAlign='middle' />
 						<List.Content verticalAlign='middle'>
 							<List.Header as='a' href='https://www.linkedin.com/in/gnicho/'>Gabriel Nicholas</List.Header>
 							<List.Description>Last seen watching stars 10 hours ago.</List.Description>
 						</List.Content>
 					</List.Item>
 					<List.Item>
-						<Image src={Nat_img}  size='small' circular verticalAlign='middle' />
+						<Image src={Nat}  size='small' circular verticalAlign='middle' />
 						<List.Content verticalAlign='middle'>
 							<List.Header as='a' href='https://www.linkedin.com/in/selberthely/'>Selenne Berthely</List.Header>
 							<List.Description>Last seen in South Hall just now.</List.Description>
@@ -46,7 +47,7 @@ class About extends Component {
 					</List.Item>
 
 					<List.Item>
-						<Image src={Nat_img}  size='small' circular verticalAlign='middle' />
+						<Image src={Nat}  size='small' circular verticalAlign='middle' />
 						<List.Content verticalAlign='middle'>
 							<List.Header as='a' href='https://www.linkedin.com/in/lizlee0225/'>Liz (Hyemin) Lee</List.Header>
 							<List.Description>Last seen in South Hall just now.</List.Description>
@@ -54,7 +55,7 @@ class About extends Component {
 					</List.Item>
 
 					<List.Item>
-						<Image src={Nat_img}  size='small' circular verticalAlign='middle' />
+						<Image src={Nat}  size='small' circular verticalAlign='middle' />
 						<List.Content verticalAlign='middle'>
 							<List.Header as='a' href='https://www.linkedin.com/in/natalia-timakova/'>Natalia Timakova</List.Header>
 							<List.Description>Last seen in South Hall just now.</List.Description>

diff --git a/src/how_it_works/js/main.js b/src/how_it_works/js/main.js
@@ -1,6 +1,5 @@
+import * as skrollr from '/skrollr.min.js'
+
 skrollr.init();		
 
-$("#back_to_top").click(function() {
-    window.location.reload();
-});
 

diff --git a/src/containers/Home.js b/src/containers/Home.js
@@ -9,10 +9,12 @@ class Home extends Component {
 	render() {
 		return (
 
-			<div><NavBar/>
-
-
+			<div>
+				<NavBar/>
+			
 			</div>
+
+
 			
 
 		)

diff --git a/src/App.js b/src/App.js
@@ -29,6 +29,7 @@ class App extends Component {
         </Switch>
       </div>
     </HashRouter>
+
     )
   }
 }
